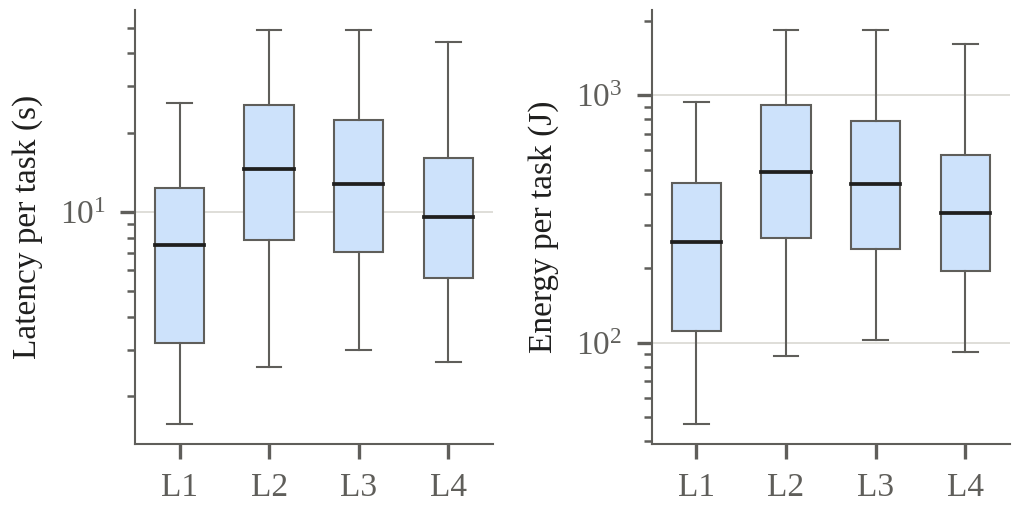
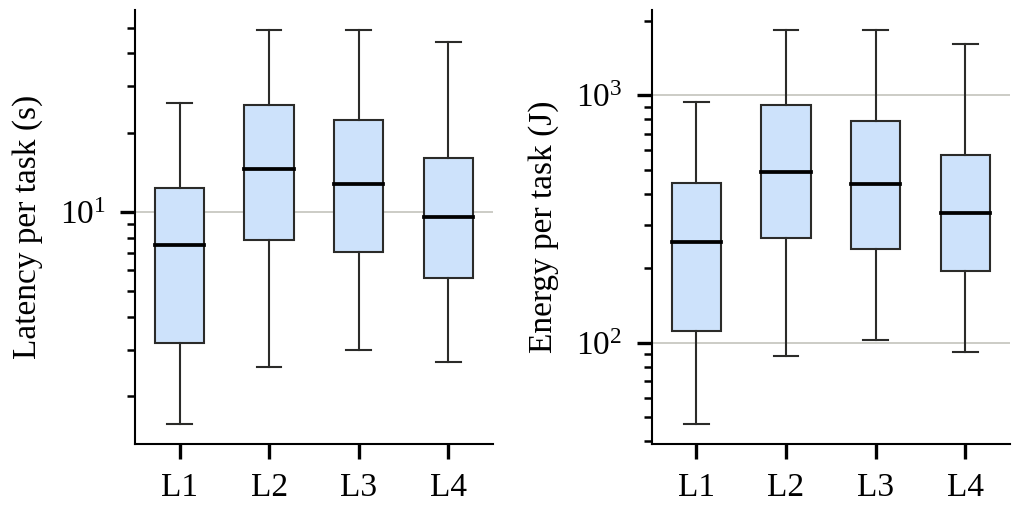
Make figure text darker and fix overlapping labels
- Use black for labels, ticks, and axis lines; darken grid and connector lines.
- Success vs. energy plot: widen the x-range so model labels clear the y-axis title, and give labels a white background.
- Success bar plot: split model names onto two lines so they do not touch.

diff --git a/analyze.py b/analyze.py
@@ -25,11 +25,11 @@ LEVELS = ["L1-single", "L2-multi", "L3-policy", "L4-safety"]
 # validated categorical slots 1-3 (dataviz reference palette, light mode)
 COLOR = {"single": "#2a78d6", "pe": "#eb6834", "pev": "#1baf7a"}
 HATCH = {"single": "", "pe": "////", "pev": "\\\\\\\\"}
-INK, MUTED, GRID = "#1f1f1e", "#5f5e5a", "#d9d8d2"
+INK, MUTED, GRID = "#000000", "#2b2b29", "#c4c3bc"
 
 plt.rcParams.update({"font.family": "serif", "font.serif": ["Times New Roman", "Liberation Serif", "DejaVu Serif"],
-                     "font.size": 8, "axes.edgecolor": MUTED, "axes.labelcolor": INK, "xtick.color": MUTED,
-                     "ytick.color": MUTED, "axes.linewidth": 0.5, "hatch.linewidth": 0.4, "hatch.color": "white"})
+                     "font.size": 8, "axes.edgecolor": INK, "axes.labelcolor": INK, "xtick.color": INK,
+                     "ytick.color": INK, "text.color": INK, "legend.labelcolor": INK, "axes.linewidth": 0.5, "hatch.linewidth": 0.4, "hatch.color": "white"})
 
 
 def load(think="off"):
@@ -176,14 +176,14 @@ def style(ax):
 
 def fig_success(A):
     ms = [m for m in MODELS if any((m, a) in A for a in ARCHS)]
-    fig, ax = plt.subplots(figsize=(3.4, 1.8))
+    fig, ax = plt.subplots(figsize=(3.4, 1.95))
     w = 0.26
     x = np.arange(len(ms))
     for i, a in enumerate(ARCHS):
         v = [A[(m, a)]["succ"] if (m, a) in A else 0 for m in ms]
         ax.bar(x + (i - 1) * w, v, w - 0.03, color=COLOR[a], hatch=HATCH[a], label=ANAME[a], lw=0)
     style(ax)
-    ax.set_xticks(x, [MNAME[m] for m in ms])
+    ax.set_xticks(x, ["\n".join(MNAME[m].rsplit("-", 1)) for m in ms])  # two lines so names do not touch
     ax.set_ylabel("Task success (%)")
     ax.set_ylim(0, 100)
     ax.legend(ncol=3, frameon=False, loc="upper left", fontsize=7, handlelength=1.4, columnspacing=1.0)
@@ -199,13 +199,15 @@ def fig_tradeoff(A):
     for m in MODELS:
         pts = [(A[(m, a)]["energy"], A[(m, a)]["succ"]) for a in ARCHS if (m, a) in A]
         if len(pts) > 1:
-            ax.plot(*zip(*pts), color=GRID, lw=0.8, zorder=1)
+            ax.plot(*zip(*pts), color=MUTED, lw=0.6, zorder=1)
         if pts:
             ax.annotate(MNAME[m], pts[0], xytext=(-4, 0), textcoords="offset points", ha="right", va="center",
-                        fontsize=7, color=MUTED)
+                        fontsize=7, color=INK, zorder=2, bbox=dict(fc="white", ec="none", pad=0.3))
     style(ax)
     ax.grid(axis="x", color=GRID, lw=0.4)
     ax.set_xscale("log")
+    # leave room on the left for the model labels so they do not hit the y-axis label
+    ax.set_xlim(min(x["energy"] for x in A.values()) / 2.6, max(x["energy"] for x in A.values()) * 1.3)
     ax.set_xlabel("Energy per task (J, log scale)")
     ax.set_ylabel("Task success (%)")
     ax.set_ylim(0, 100)
